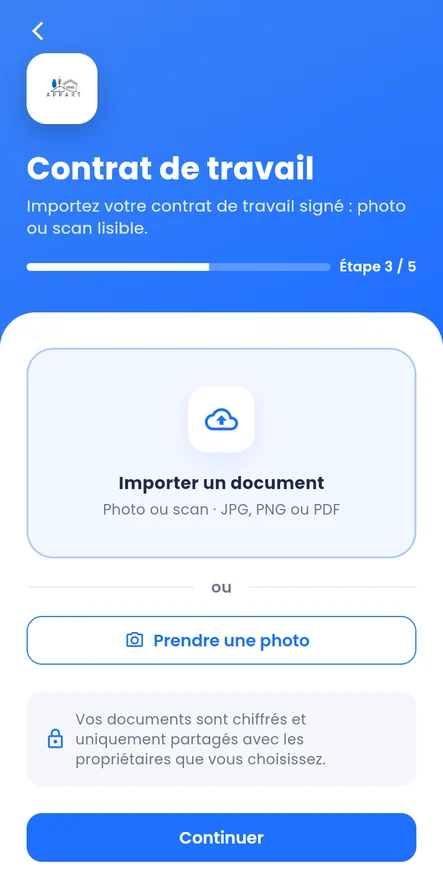
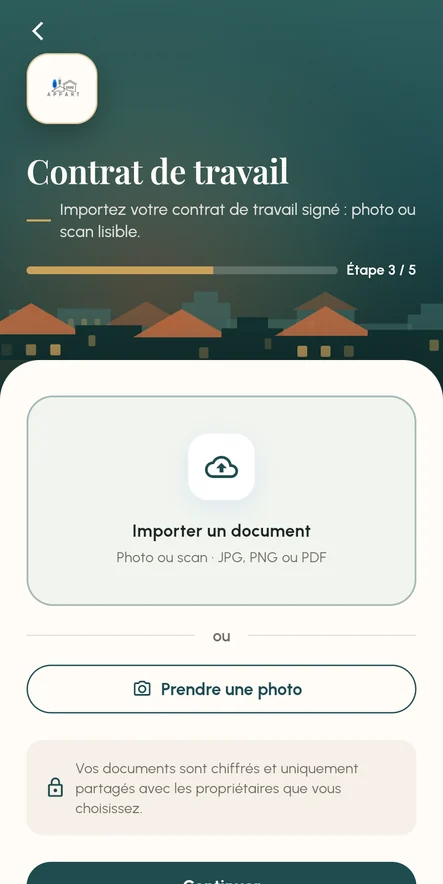
Secure Appart: screenshots with the new visual identity

diff --git a/content.js b/content.js
@@ -198,19 +198,19 @@ window.CONTENT = {
       pills: ["Django", "OCR", "MongoDB"],
       flow: [["fr:Justificatif|en:Document|it:Documento", "client"], ["OCR · Tesseract", "api"], ["Random Forest", "ai"], ["fr:Score du dossier|en:Application score|it:Punteggio", "qa"]],
       film: { device: "phone", frames: [
-        ["assets/work/secure-appart/new-1.webp", { fr: "Connexion", en: "Sign in", it: "Accesso" }],
-        ["assets/work/secure-appart/new-2.webp", { fr: "Création de compte", en: "Sign up", it: "Registrazione" }],
-        ["assets/work/secure-appart/new-3.webp", { fr: "Vérification de l'e-mail par code", en: "E-mail verification code", it: "Verifica e-mail con codice" }],
-        ["assets/work/secure-appart/new-5.webp", { fr: "Choix du profil", en: "Choose a profile", it: "Scelta del profilo" }],
-        ["assets/work/secure-appart/new-9.webp", { fr: "Préférences de recherche", en: "Search preferences", it: "Preferenze di ricerca" }],
-        ["assets/work/secure-appart/new-6.webp", { fr: "Dépôt de la pièce d'identité", en: "ID document upload", it: "Caricamento documento d'identità" }],
-        ["assets/work/secure-appart/new-11.webp", { fr: "Dépôt du contrat de travail", en: "Employment contract upload", it: "Caricamento del contratto di lavoro" }],
-        ["assets/work/secure-appart/new-12.webp", { fr: "Dépôt de la fiche de paie", en: "Payslip upload", it: "Caricamento della busta paga" }],
-        ["assets/work/secure-appart/new-13.webp", { fr: "Dépôt des relevés bancaires", en: "Bank statements upload", it: "Caricamento degli estratti conto" }],
-        ["assets/work/secure-appart/new-7.webp", { fr: "Score du dossier calculé par l'IA", en: "AI-computed application score", it: "Punteggio calcolato dall'IA" }],
-        ["assets/work/secure-appart/new-8.webp", { fr: "Accueil — dernières annonces", en: "Home — latest listings", it: "Home — ultimi annunci" }],
-        ["assets/work/secure-appart/new-10.webp", { fr: "Propositions de locataires pour le propriétaire", en: "Tenant proposals for the owner", it: "Proposte di inquilini per il proprietario" }],
-        ["assets/work/secure-appart/new-4.webp", { fr: "Mot de passe oublié", en: "Forgot password", it: "Password dimenticata" }]
+        ["assets/work/secure-appart/new-1.webp?v=1bac0aae", { fr: "Connexion", en: "Sign in", it: "Accesso" }],
+        ["assets/work/secure-appart/new-2.webp?v=64b726ef", { fr: "Création de compte", en: "Sign up", it: "Registrazione" }],
+        ["assets/work/secure-appart/new-3.webp?v=650076c4", { fr: "Vérification de l'e-mail par code", en: "E-mail verification code", it: "Verifica e-mail con codice" }],
+        ["assets/work/secure-appart/new-5.webp?v=8df8360f", { fr: "Choix du profil", en: "Choose a profile", it: "Scelta del profilo" }],
+        ["assets/work/secure-appart/new-9.webp?v=a5802981", { fr: "Préférences de recherche", en: "Search preferences", it: "Preferenze di ricerca" }],
+        ["assets/work/secure-appart/new-6.webp?v=969e125f", { fr: "Dépôt de la pièce d'identité", en: "ID document upload", it: "Caricamento documento d'identità" }],
+        ["assets/work/secure-appart/new-11.webp?v=4cc46d16", { fr: "Dépôt du contrat de travail", en: "Employment contract upload", it: "Caricamento del contratto di lavoro" }],
+        ["assets/work/secure-appart/new-12.webp?v=ceb3d867", { fr: "Dépôt de la fiche de paie", en: "Payslip upload", it: "Caricamento della busta paga" }],
+        ["assets/work/secure-appart/new-13.webp?v=58d65549", { fr: "Dépôt des relevés bancaires", en: "Bank statements upload", it: "Caricamento degli estratti conto" }],
+        ["assets/work/secure-appart/new-7.webp?v=918c3230", { fr: "Score du dossier calculé par l'IA", en: "AI-computed application score", it: "Punteggio calcolato dall'IA" }],
+        ["assets/work/secure-appart/new-8.webp?v=fc5173dc", { fr: "Accueil — dernières annonces", en: "Home — latest listings", it: "Home — ultimi annunci" }],
+        ["assets/work/secure-appart/new-10.webp?v=c7b8a5c9", { fr: "Propositions de locataires pour le propriétaire", en: "Tenant proposals for the owner", it: "Proposte di inquilini per il proprietario" }],
+        ["assets/work/secure-appart/new-4.webp?v=fdd03e77", { fr: "Mot de passe oublié", en: "Forgot password", it: "Password dimenticata" }]
       ], note: { fr: "écrans réels de l'application mobile", en: "real screens of the mobile app", it: "schermate reali dell'app mobile" } } },
 
     { id: "synap", name: "Synapsystem", stack: ["ai", "django"],

diff --git a/index.html b/index.html
@@ -208,7 +208,7 @@
   </div>
 
   <noscript><p class="wrap">CV : <a href="cv/Ferdaoues_Abdessalem_CV_FR.pdf">FR</a> · <a href="cv/Ferdaoues_Abdessalem_Resume.pdf">EN</a> · <a href="cv/Ferdaoues_Abdessalem_CV_IT.pdf">IT</a></p></noscript>
-  <script src="content.js?v=e3ae1e68"></script>
+  <script src="content.js?v=5f1ce26c"></script>
   <script src="main.js?v=6bea07eb"></script>
   <script src="animations.js?v=d2e8fd44"></script>
 </body>
